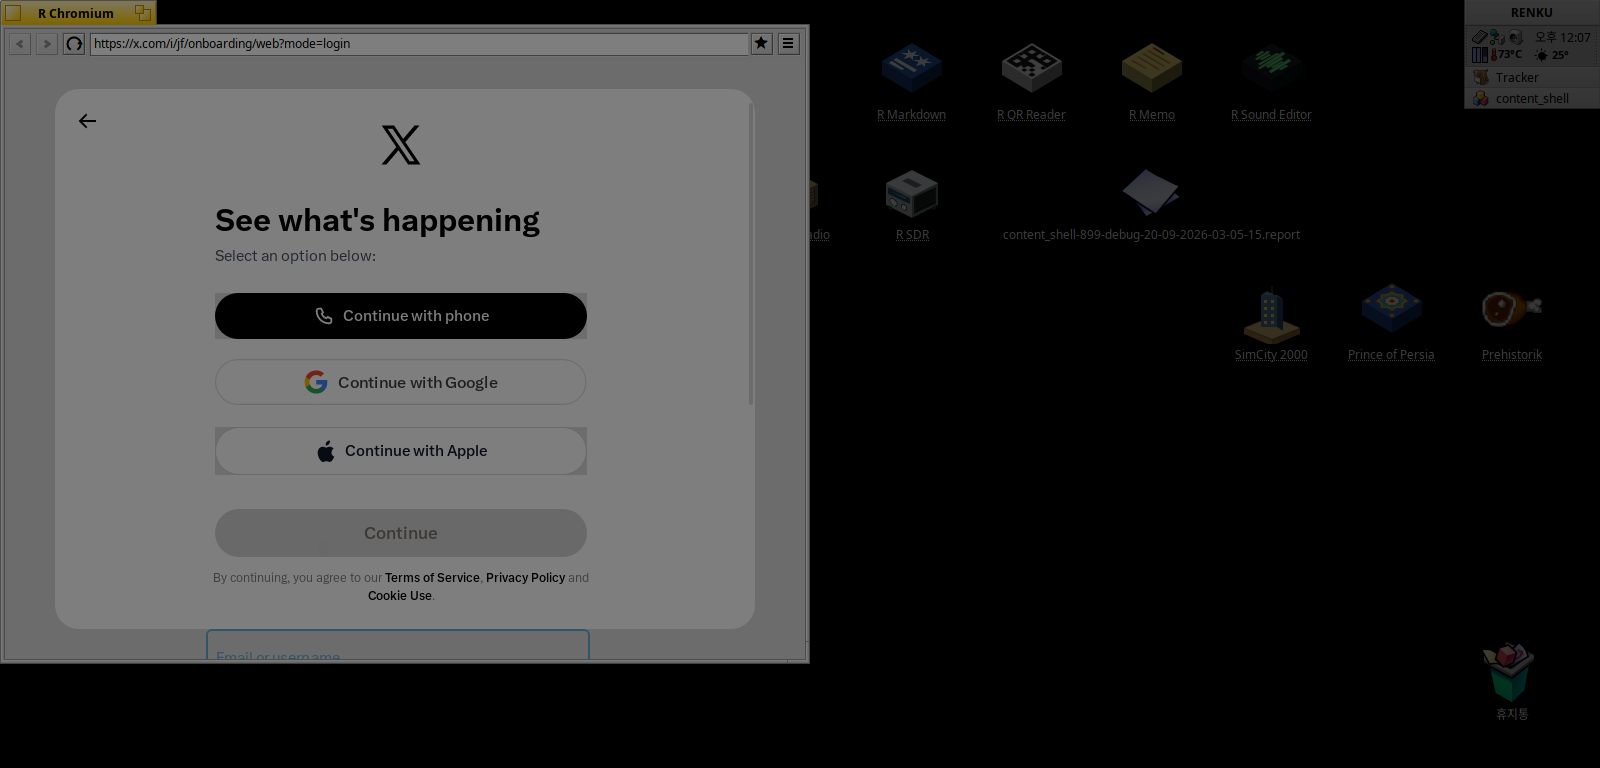
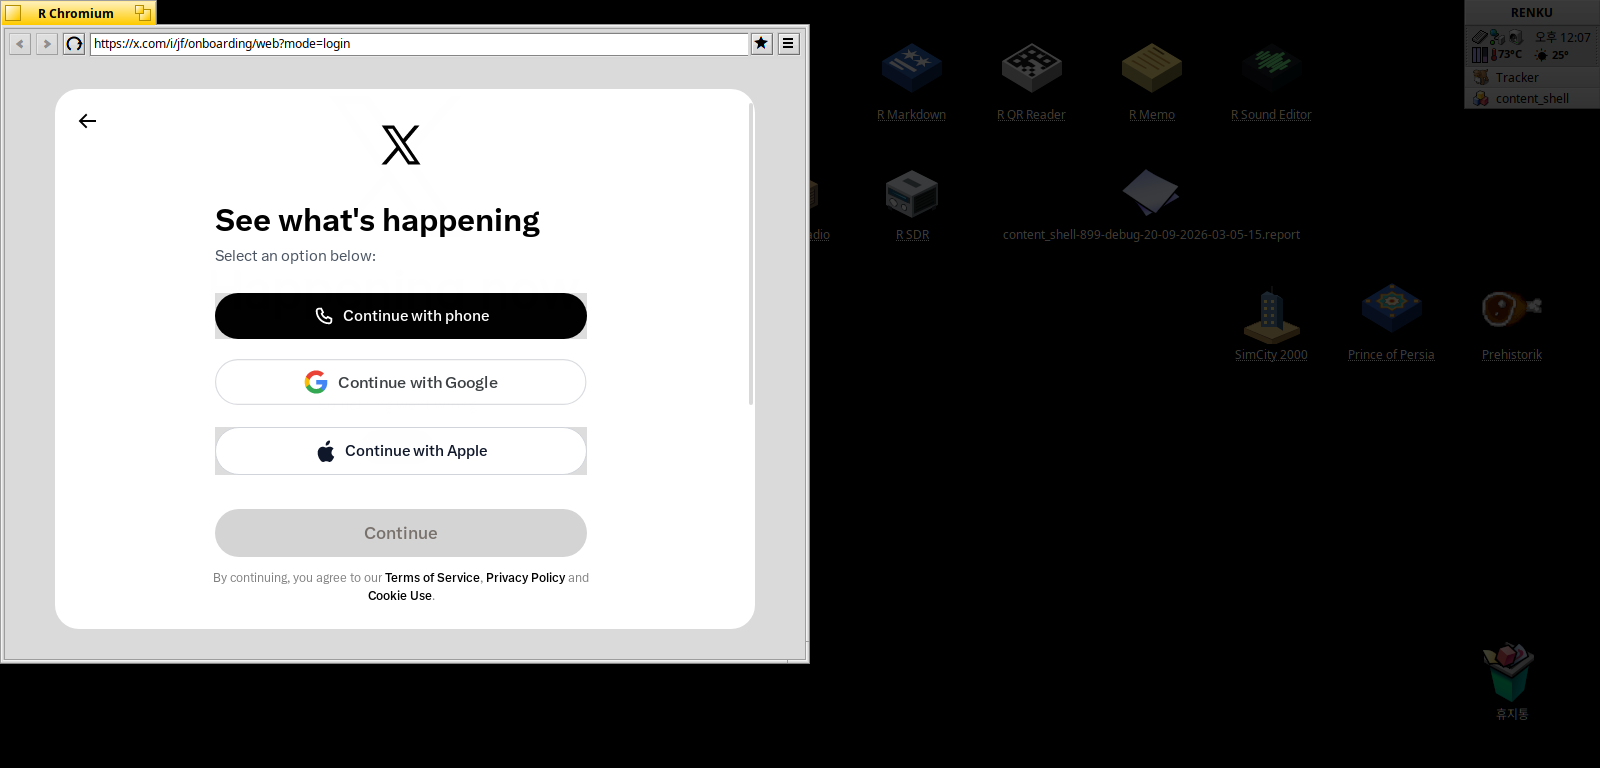
:memo: Status: x.com renders from the installed build
Screenshot retaken from /boot/home/RChromium, installed by install.sh with
both link gates passing. Records the remaining web-font gap as the next item.

diff --git a/AGENTS.md b/AGENTS.md
@@ -82,6 +82,19 @@ and every fix are in `docs/browser-ui-plan.md`. Known limits: web storage is
 session-only (off-the-record, by design -- see the docs), and Google News
 takes 6-8 s on the Atom (renderer CPU-bound; naver loads in 1.5-2.5 s).
 
+2026-09-20: `https://x.com/i/flow/login` renders too -- the X logo, the
+phone/Google/Apple buttons and the email field, from the binary installed by
+`install.sh` (`docs/screenshots/x86-x-com-login.png`). Getting there took a
+thread-stack fix (patch 0090), a relink through
+`scripts/linkretry-verified.sh`, and restoring
+`/boot/home/rchromium-fonts.conf`; the section below has the whole story.
+Web fonts still do not load -- `remote_font_face_source.cc(356)` and
+`computed_style.cc(1683)` `NOTREACHED()` both say
+`GetLastResortFallbackFont()` returned null -- so pages render in Noto rather
+than their own typeface. Adding Arial/Times/Courier aliases to the fontconfig
+file does not change it; the cause is further in, and this is the next thing
+to look at.
+
 ## Physical Haiku machine
 
 - SSH: `user@haiku`. **Never issue `shutdown` or `reboot` from an attached SSH
